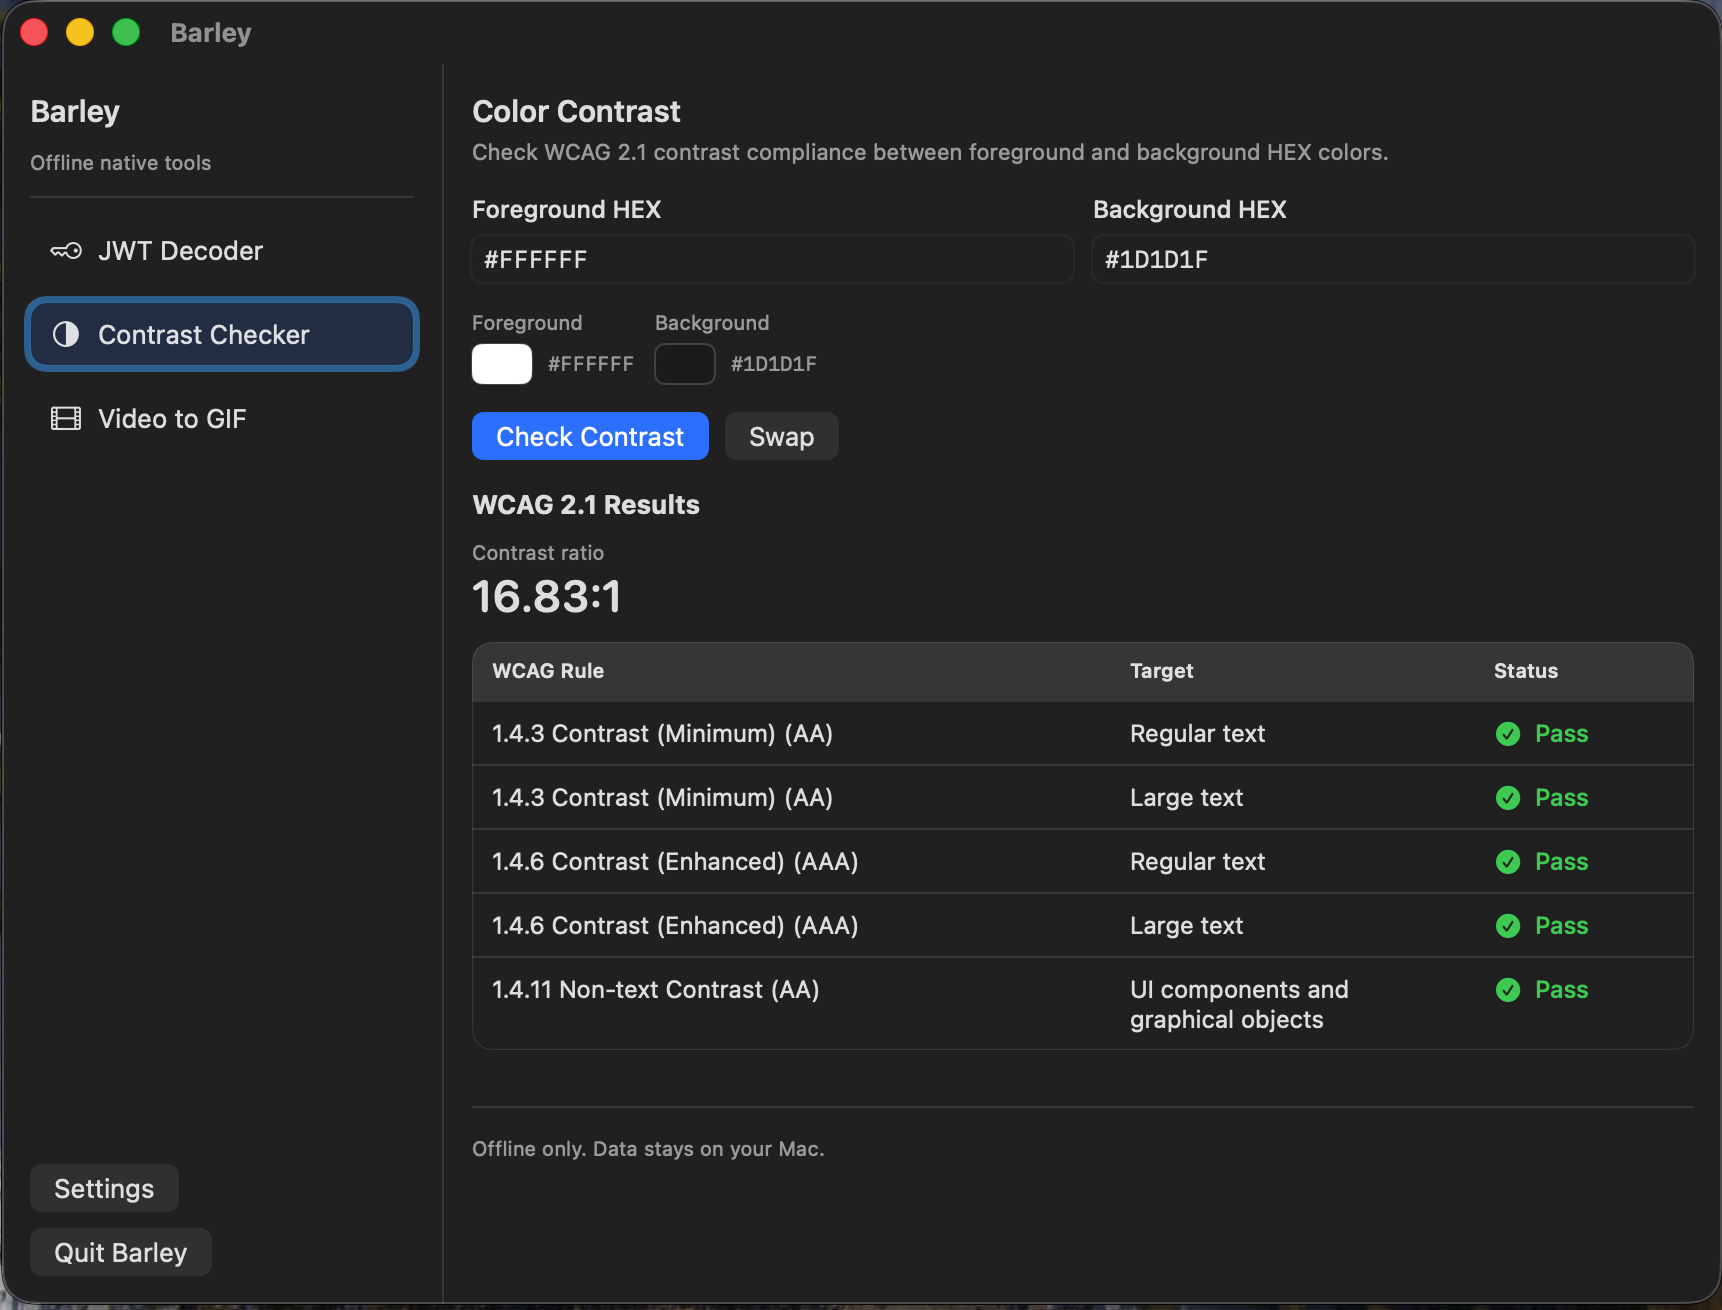
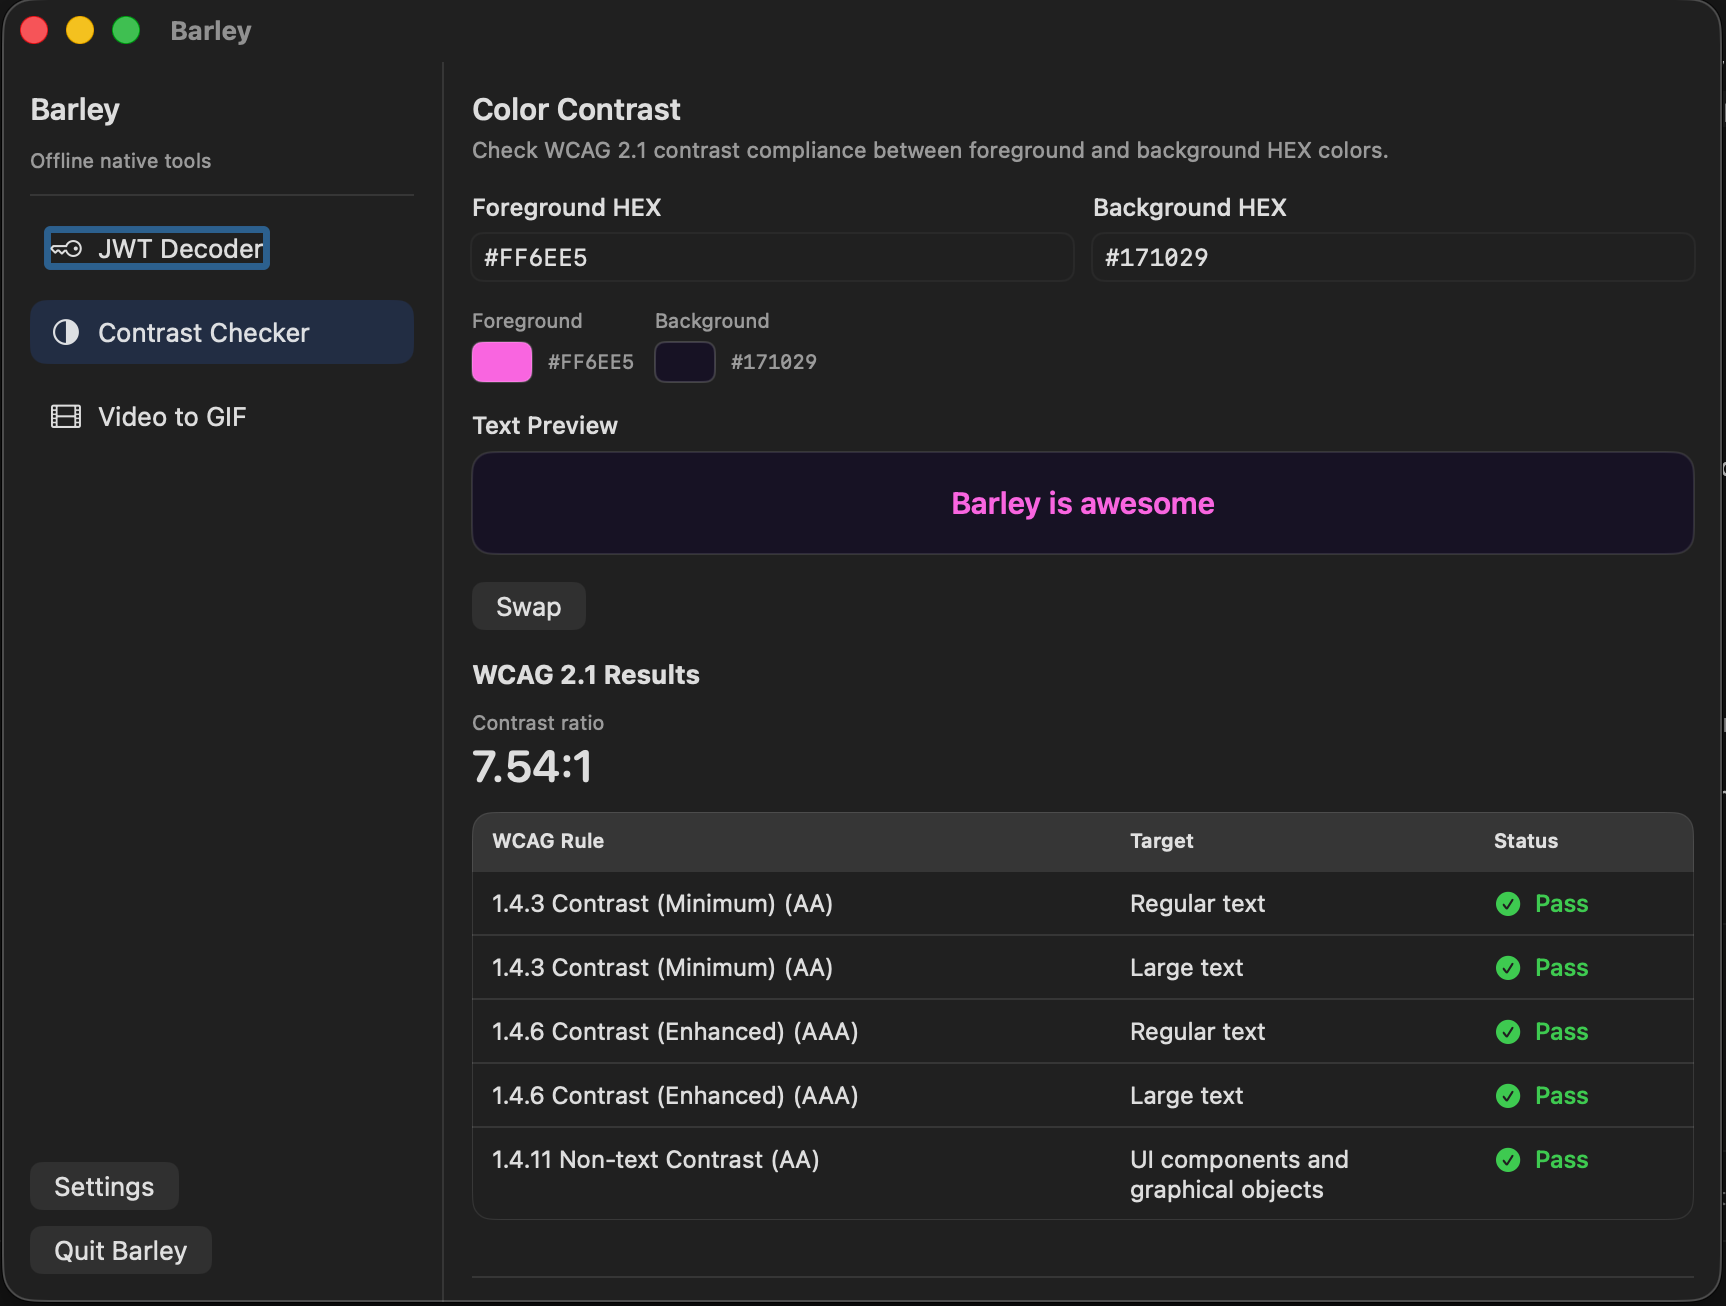
text preview

diff --git a/Sources/Barley/UI/Features/ContrastFeatureView.swift b/Sources/Barley/UI/Features/ContrastFeatureView.swift
@@ -20,6 +20,7 @@ struct ContrastFeatureView: View {
 
             colorInputs
             swatchPreview
+            textPreview
             actions
 
             if let errorMessage {
@@ -35,6 +36,12 @@ struct ContrastFeatureView: View {
             Spacer(minLength: 0)
         }
         .onAppear {
+            evaluateContrast()
+        }
+        .onChange(of: foregroundHex) { _ in
+            evaluateContrast()
+        }
+        .onChange(of: backgroundHex) { _ in
             evaluateContrast()
         }
     }
@@ -80,20 +87,39 @@ struct ContrastFeatureView: View {
 
     private var actions: some View {
         HStack {
-            Button("Check Contrast") {
-                evaluateContrast()
-            }
-            .buttonStyle(.borderedProminent)
-
             Button("Swap") {
                 let previousForeground = foregroundHex
                 foregroundHex = backgroundHex
                 backgroundHex = previousForeground
-                evaluateContrast()
             }
             .buttonStyle(.bordered)
 
             Spacer()
+        }
+    }
+
+    private var textPreview: some View {
+        let foreground = Color(hex: foregroundHex) ?? .primary
+        let background = Color(hex: backgroundHex) ?? .clear
+
+        return VStack(alignment: .leading, spacing: 6) {
+            Text("Text Preview")
+                .font(.callout.weight(.medium))
+
+            Text("Barley is awesome")
+                .font(.title3.weight(.semibold))
+                .foregroundStyle(foreground)
+                .frame(maxWidth: .infinity, alignment: .center)
+                .padding(.vertical, 16)
+                .padding(.horizontal, 12)
+                .background(
+                    RoundedRectangle(cornerRadius: 10)
+                        .fill(background)
+                )
+                .overlay(
+                    RoundedRectangle(cornerRadius: 10)
+                        .stroke(Color.secondary.opacity(0.2), lineWidth: 1)
+                )
         }
     }
 
@@ -192,7 +218,6 @@ struct ContrastFeatureView: View {
                     return
                 }
                 foregroundHex = hex
-                evaluateContrast()
             }
         )
     }
@@ -205,7 +230,6 @@ struct ContrastFeatureView: View {
                     return
                 }
                 backgroundHex = hex
-                evaluateContrast()
             }
         )
     }